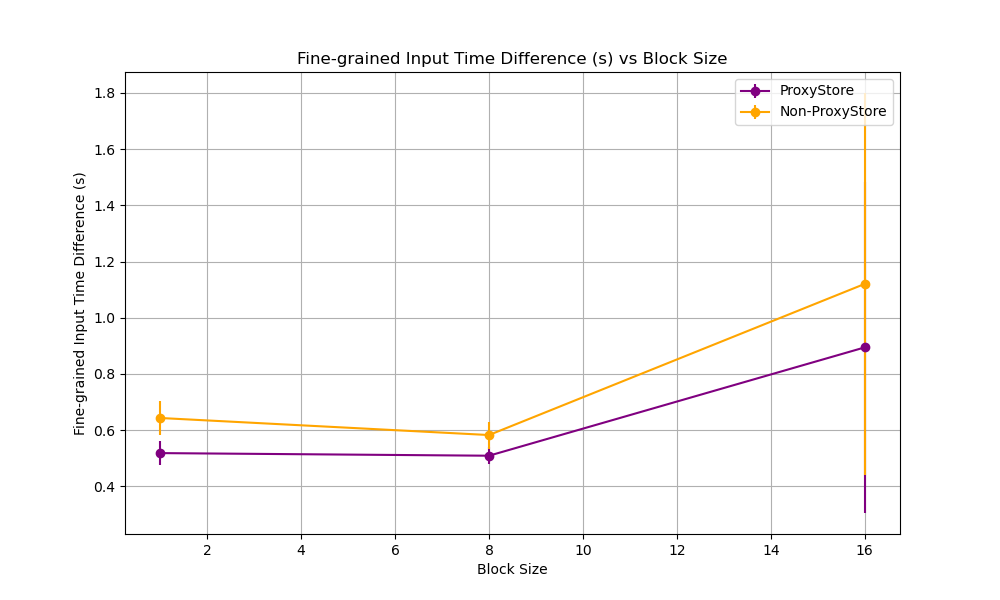
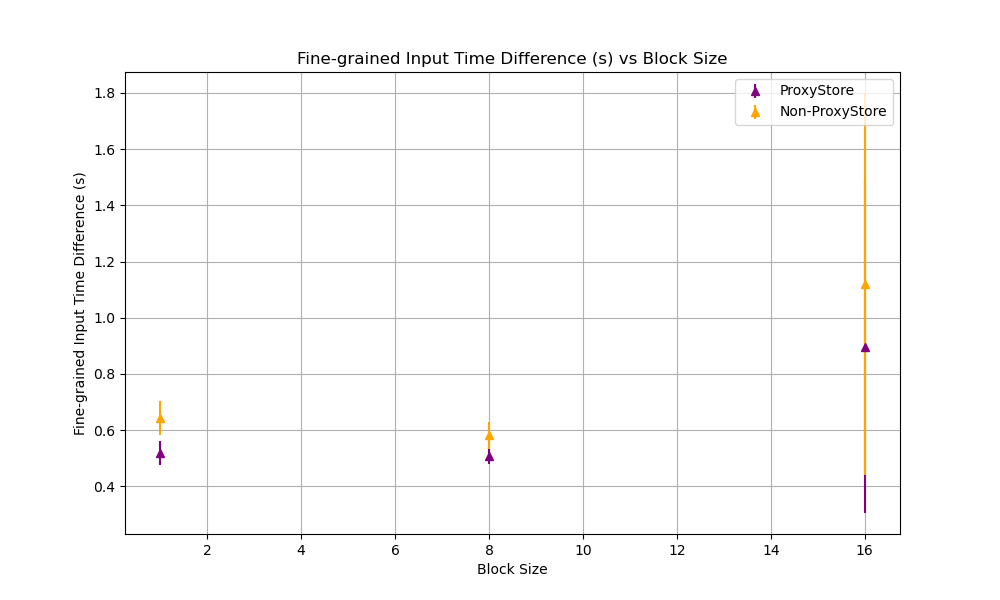
new graphs

diff --git a/MDAnalysis/scripts-DCD/graphscript.py b/MDAnalysis/scripts-DCD/graphscript.py
@@ -30,10 +30,10 @@ def plot_graph(block_sizes, proxystore_stats, non_proxystore_stats, metric, ylab
     plt.figure(figsize=(10, 6))
     plt.errorbar(block_sizes, [proxystore_stats[bs][metric_mean] for bs in block_sizes], 
                  yerr=[proxystore_stats[bs][metric_stdev] for bs in block_sizes], 
-                 label='ProxyStore', color='purple', fmt='-o')
+                 label='ProxyStore', color='purple', linestyle='None', marker='^')
     plt.errorbar(block_sizes, [non_proxystore_stats[bs][metric_mean] for bs in block_sizes], 
                  yerr=[non_proxystore_stats[bs][metric_stdev] for bs in block_sizes], 
-                 label='Non-ProxyStore', color='orange', fmt='-o')
+                 label='Non-ProxyStore', color='orange', linestyle='None', marker='^')
 
     plt.xlabel('Block Size')
     plt.ylabel(ylabel)
